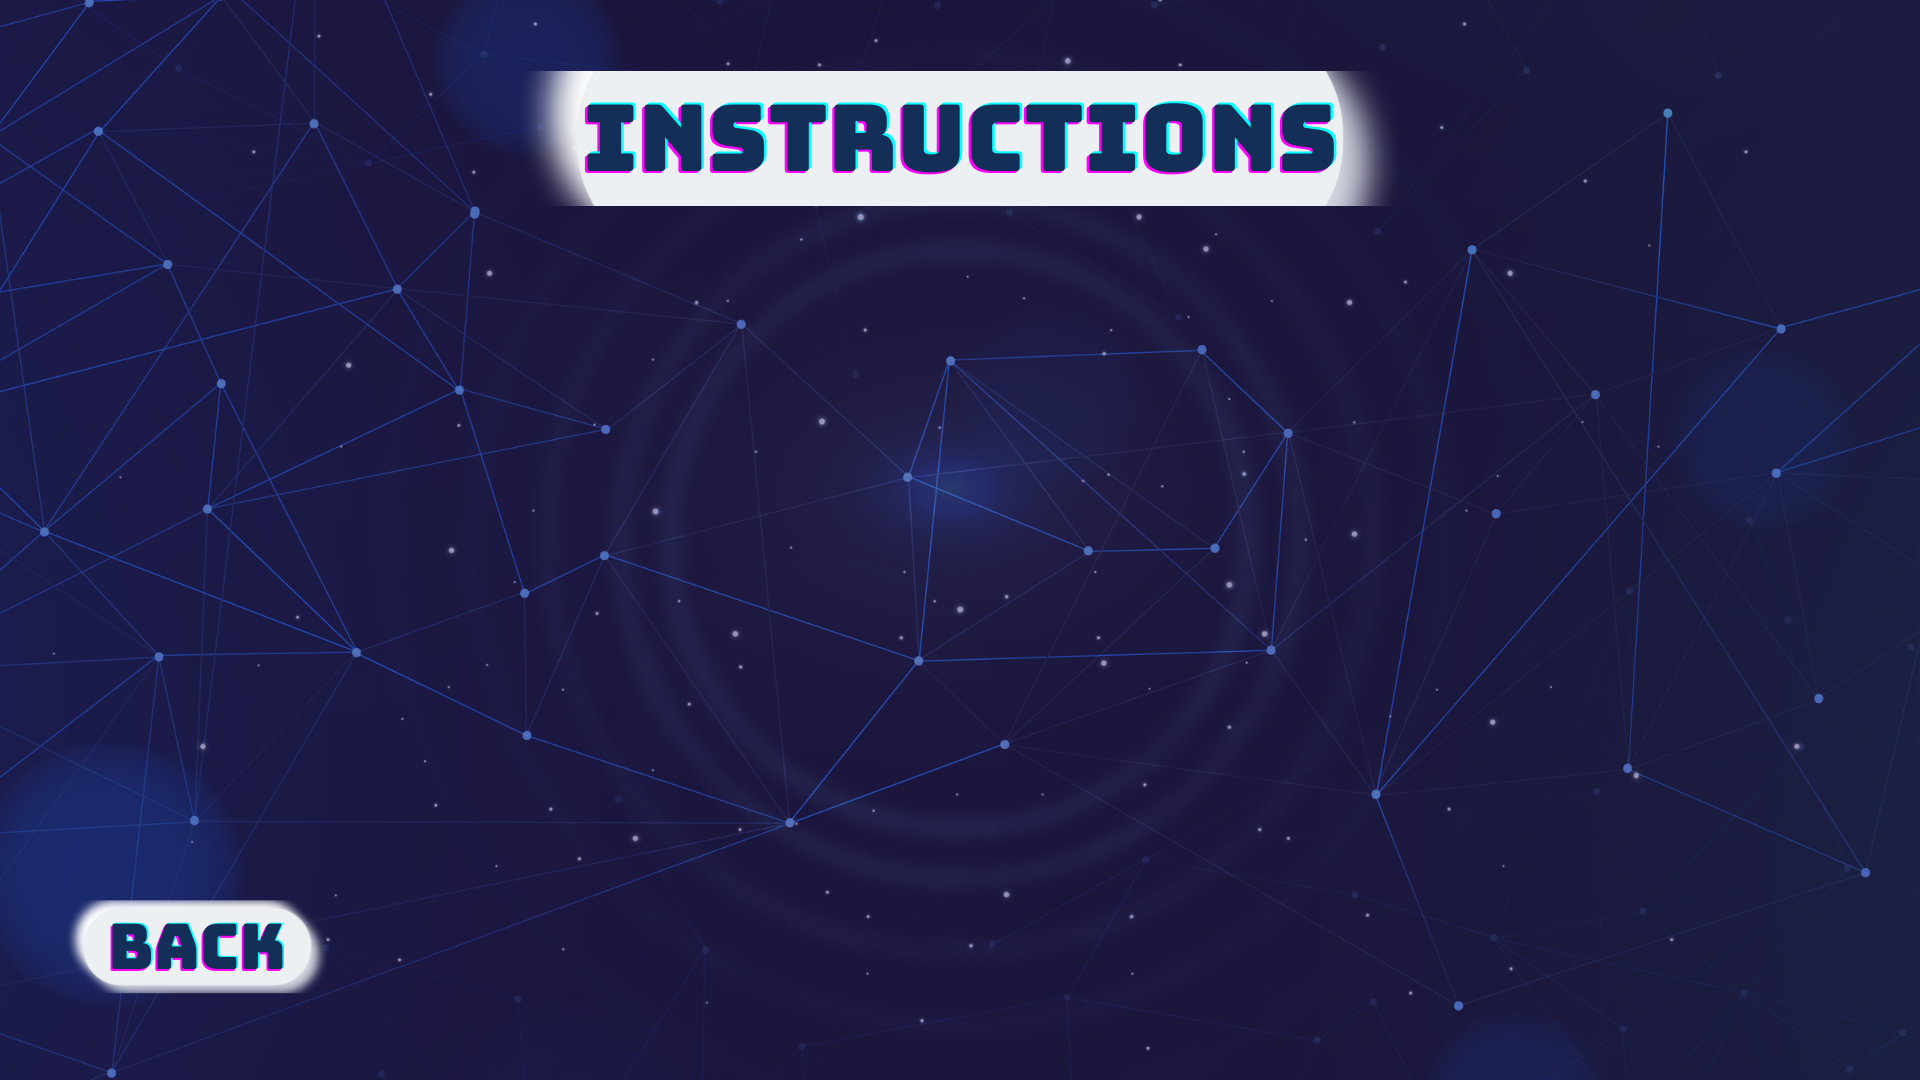
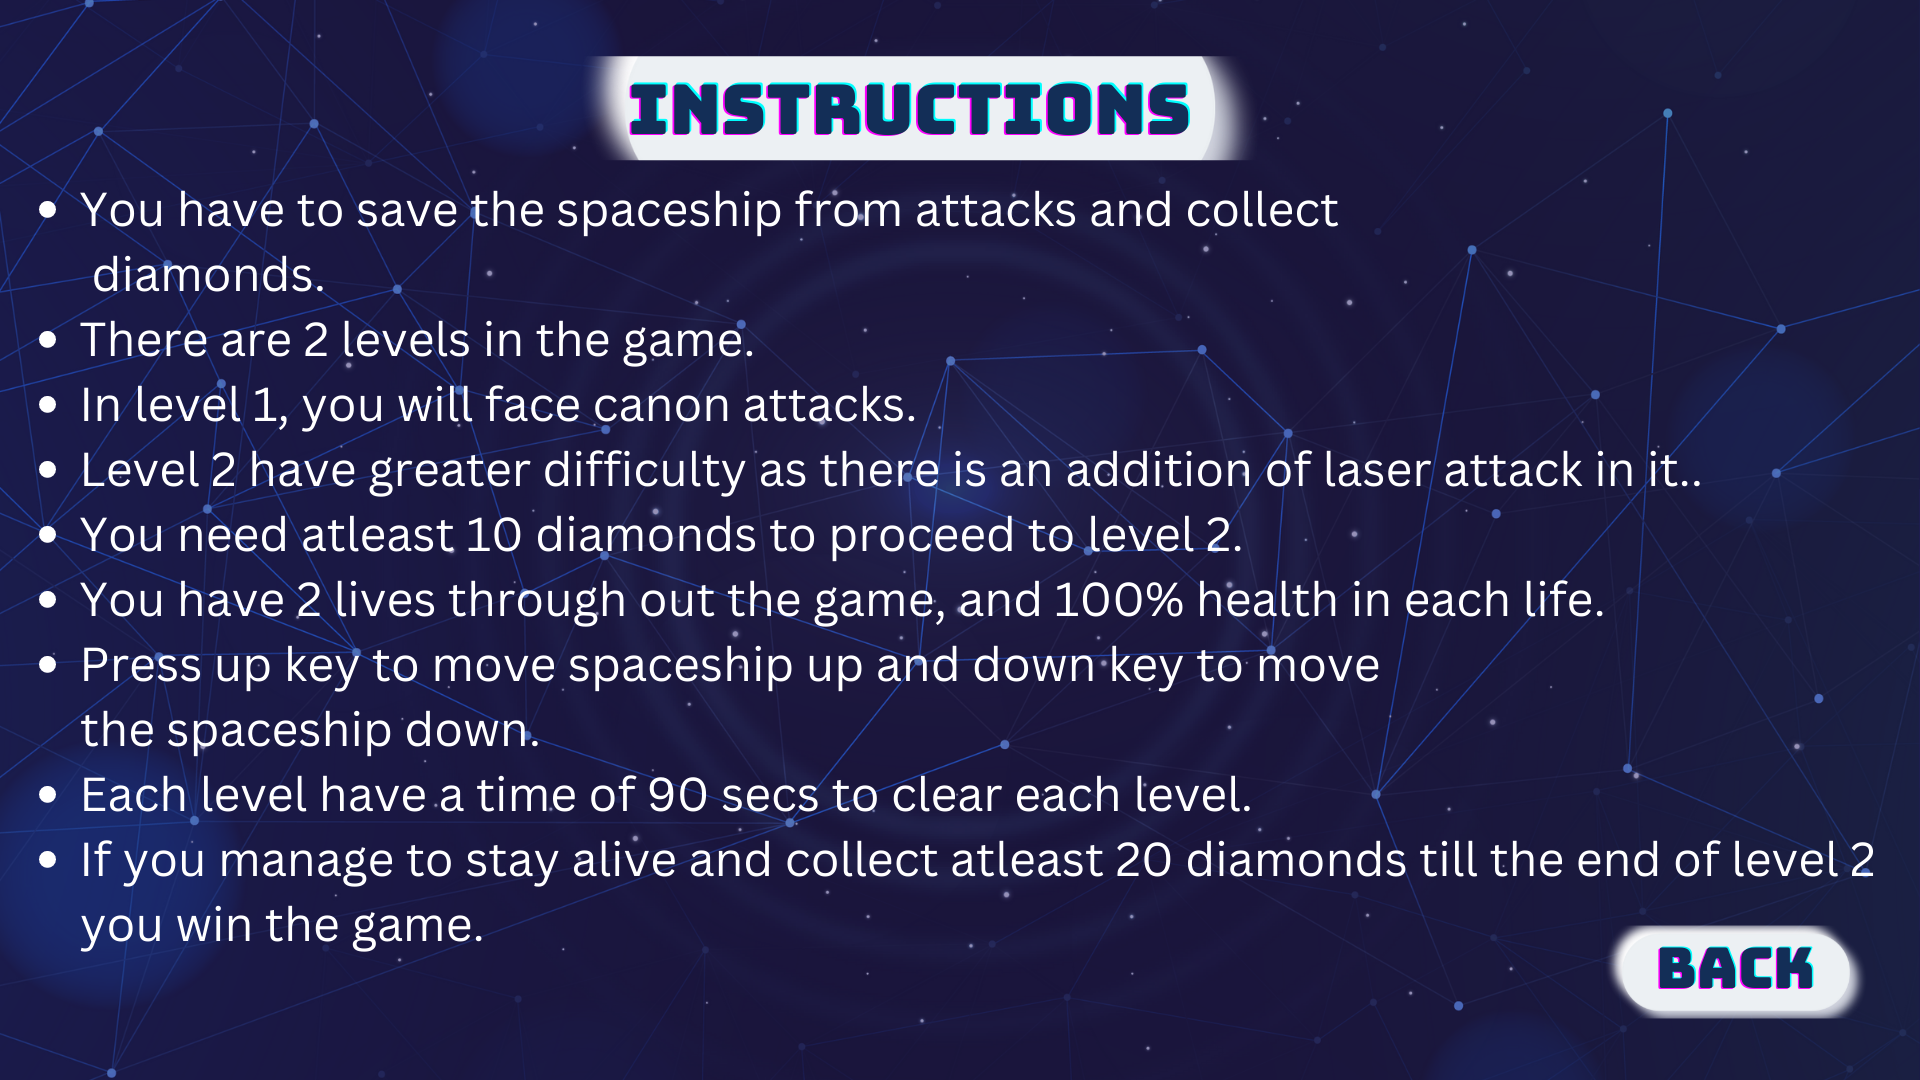
rules

diff --git a/game.cpp b/game.cpp
@@ -273,14 +273,17 @@ void Game::run()
 				{
 					state = 1; // state 1 is the rules page
 					Mix_PlayChannel(-1, button, 0);
+					
 					loadRules();
+				
 				}
-				else if (state == 1 and xMouse >= 42 and xMouse <= 197 and yMouse >= 583 and yMouse <= 641)
+				
+				 else if (state == 1 and xMouse >=1008 and xMouse <= 1160 and yMouse >= 601 and yMouse <= 659)
 				{
 					state = 0;
 					Mix_PlayChannel(-1, button, 0);
 					loadMenu();
-				}
+				} 
 				else if(state==4){
 					cout << xMouse << "," << yMouse << endl;
 					//return to menu screen button conditions
